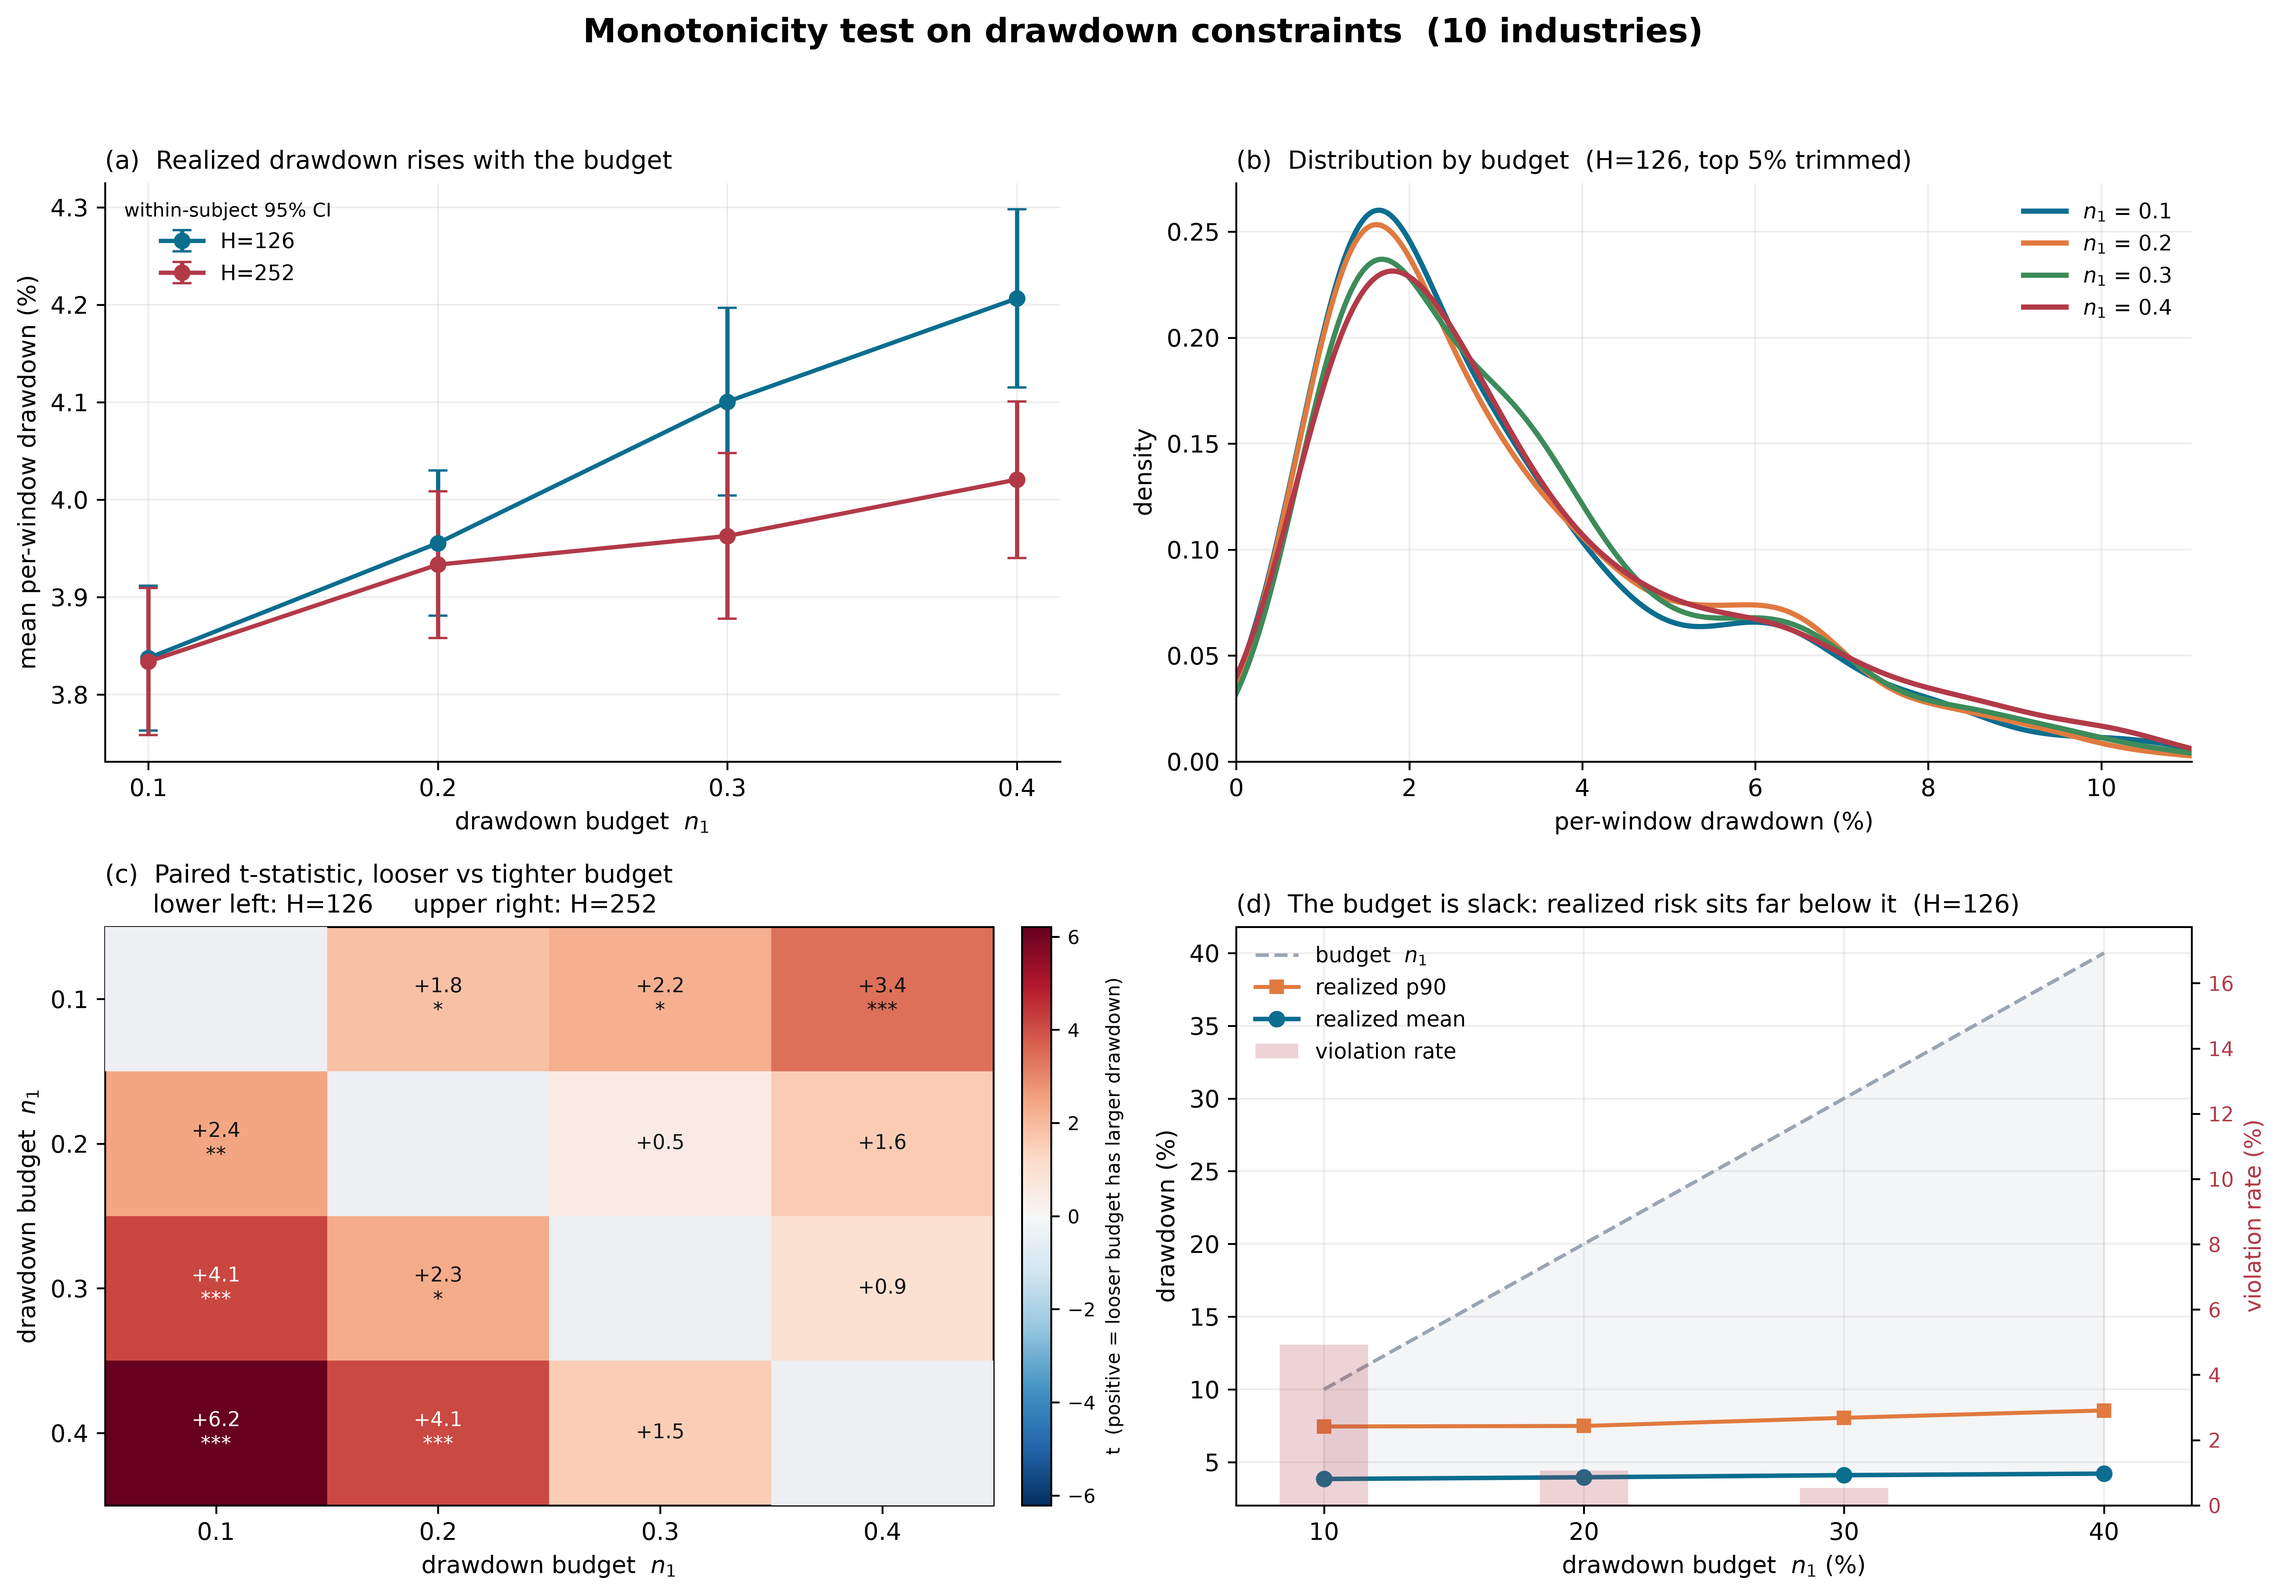
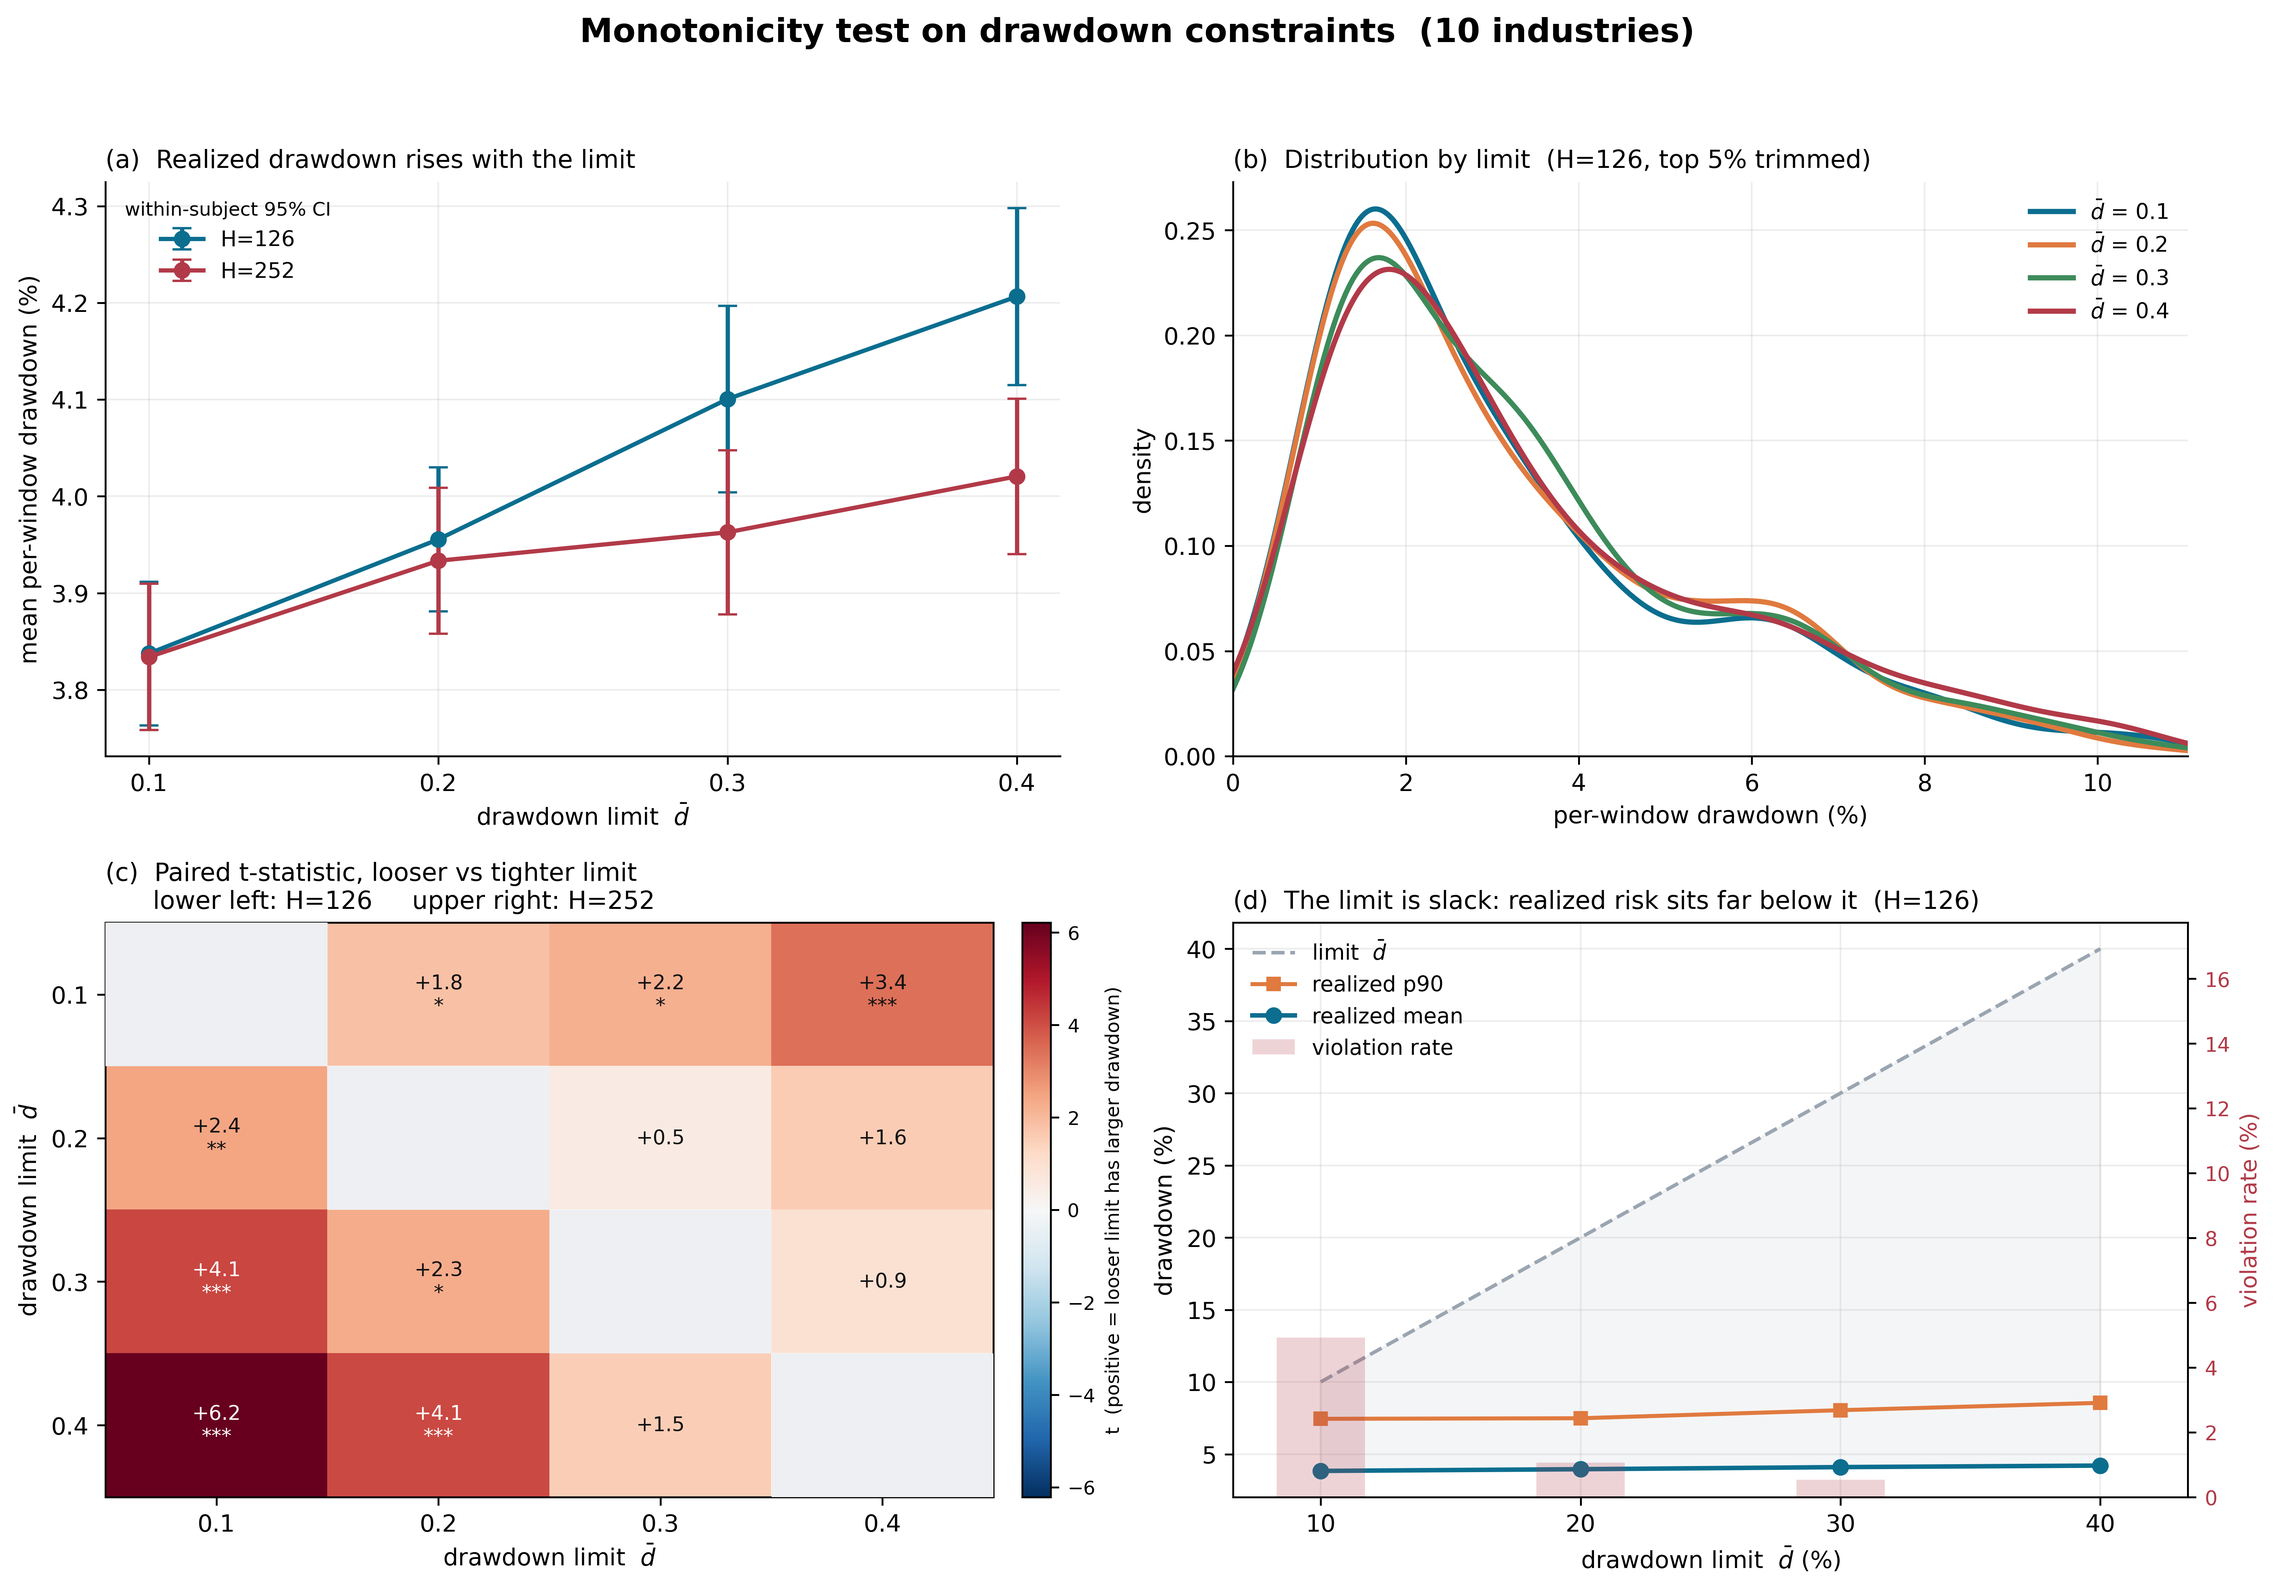
Label the monotonicity figure with the paper's notation
The figure said "budget n1" throughout, but the paper writes the
drawdown limit as d-bar. Nine axis labels, panel titles, legend entries
and the colourbar label now read "limit" and $\bar{d}$; the variable
names and the data behind the figure are untouched.

diff --git a/DFL-MDD/plot_n1_monotonicity.py b/DFL-MDD/plot_n1_monotonicity.py
@@ -52,9 +52,9 @@ def panel_levels(ax, blocks):
                     marker="o", ms=6, lw=1.8, capsize=4,
                     color=H_COL[H], label=f"H={H}")
     ax.set_xticks(N1_LIST)
-    ax.set_xlabel("drawdown budget  $n_1$")
+    ax.set_xlabel("drawdown limit  $\\bar{d}$")
     ax.set_ylabel("mean per-window drawdown (%)")
-    ax.set_title("(a)  Realized drawdown rises with the budget",
+    ax.set_title("(a)  Realized drawdown rises with the limit",
                  fontsize=10.5, loc="left")
     ax.legend(fontsize=9, frameon=False, title="within-subject 95% CI",
               title_fontsize=8)
@@ -73,12 +73,12 @@ def panel_kde(ax, long126, trim_pct=5):
         d = long126[long126.n1 == n1].M_real.values * 100
         d = d[d <= hi]
         y = stats.gaussian_kde(d)(grid)
-        ax.plot(grid, y, lw=2.2, color=N1_COL[n1], label=f"$n_1$ = {n1}")
+        ax.plot(grid, y, lw=2.2, color=N1_COL[n1], label=f"$\\bar{{d}}$ = {n1}")
     ax.set_xlim(0, hi)
     ax.set_ylim(bottom=0)
     ax.set_xlabel("per-window drawdown (%)")
     ax.set_ylabel("density")
-    ax.set_title(f"(b)  Distribution by budget  (H=126, top {trim_pct}% trimmed)",
+    ax.set_title(f"(b)  Distribution by limit  (H=126, top {trim_pct}% trimmed)",
                  fontsize=10.5, loc="left")
     ax.legend(fontsize=9, frameon=False)
 
@@ -119,14 +119,14 @@ def panel_heatmap(ax, blocks, fig):
                         color="#111" if abs(M[i, j]) < vmax * .6 else "white")
     ax.set_xticks(range(k), [str(v) for v in N1_LIST])
     ax.set_yticks(range(k), [str(v) for v in N1_LIST])
-    ax.set_xlabel("drawdown budget  $n_1$")
-    ax.set_ylabel("drawdown budget  $n_1$")
-    ax.set_title("(c)  Paired t-statistic, looser vs tighter budget\n"
+    ax.set_xlabel("drawdown limit  $\\bar{d}$")
+    ax.set_ylabel("drawdown limit  $\\bar{d}$")
+    ax.set_title("(c)  Paired t-statistic, looser vs tighter limit\n"
                  "      lower left: H=126     upper right: H=252",
                  fontsize=10.5, loc="left")
     ax.grid(False)
     cb = fig.colorbar(im, ax=ax, fraction=0.040, pad=0.03)
-    cb.set_label("t  (positive = looser budget has larger drawdown)", fontsize=8)
+    cb.set_label("t  (positive = looser limit has larger drawdown)", fontsize=8)
     cb.ax.tick_params(labelsize=8)
 
 
@@ -143,7 +143,7 @@ def panel_slack(ax, long126):
     ax2.tick_params(axis="y", labelcolor="#B23A48", labelsize=8.5)
     ax2.set_ylim(0, max(viol) * 3.4 + 1)
 
-    ax.plot(x, x, color="#9AA5B1", ls="--", lw=1.5, label="budget  $n_1$")
+    ax.plot(x, x, color="#9AA5B1", ls="--", lw=1.5, label="limit  $\\bar{d}$")
     ax.fill_between(x, mean, x, color="#9AA5B1", alpha=0.10)
     ax.plot(x, p90, marker="s", ms=5, lw=1.7, color="#E07A3F",
             label="realized p90")
@@ -154,9 +154,9 @@ def panel_slack(ax, long126):
     h2, l2 = ax2.get_legend_handles_labels()
     ax.legend(h1 + h2, l1 + l2, fontsize=9, frameon=False, loc="upper left")
     ax.set_xticks(x)
-    ax.set_xlabel("drawdown budget  $n_1$ (%)")
+    ax.set_xlabel("drawdown limit  $\\bar{d}$ (%)")
     ax.set_ylabel("drawdown (%)")
-    ax.set_title("(d)  The budget is slack: realized risk sits far below it  (H=126)",
+    ax.set_title("(d)  The limit is slack: realized risk sits far below it  (H=126)",
                  fontsize=10.5, loc="left")
 
 
